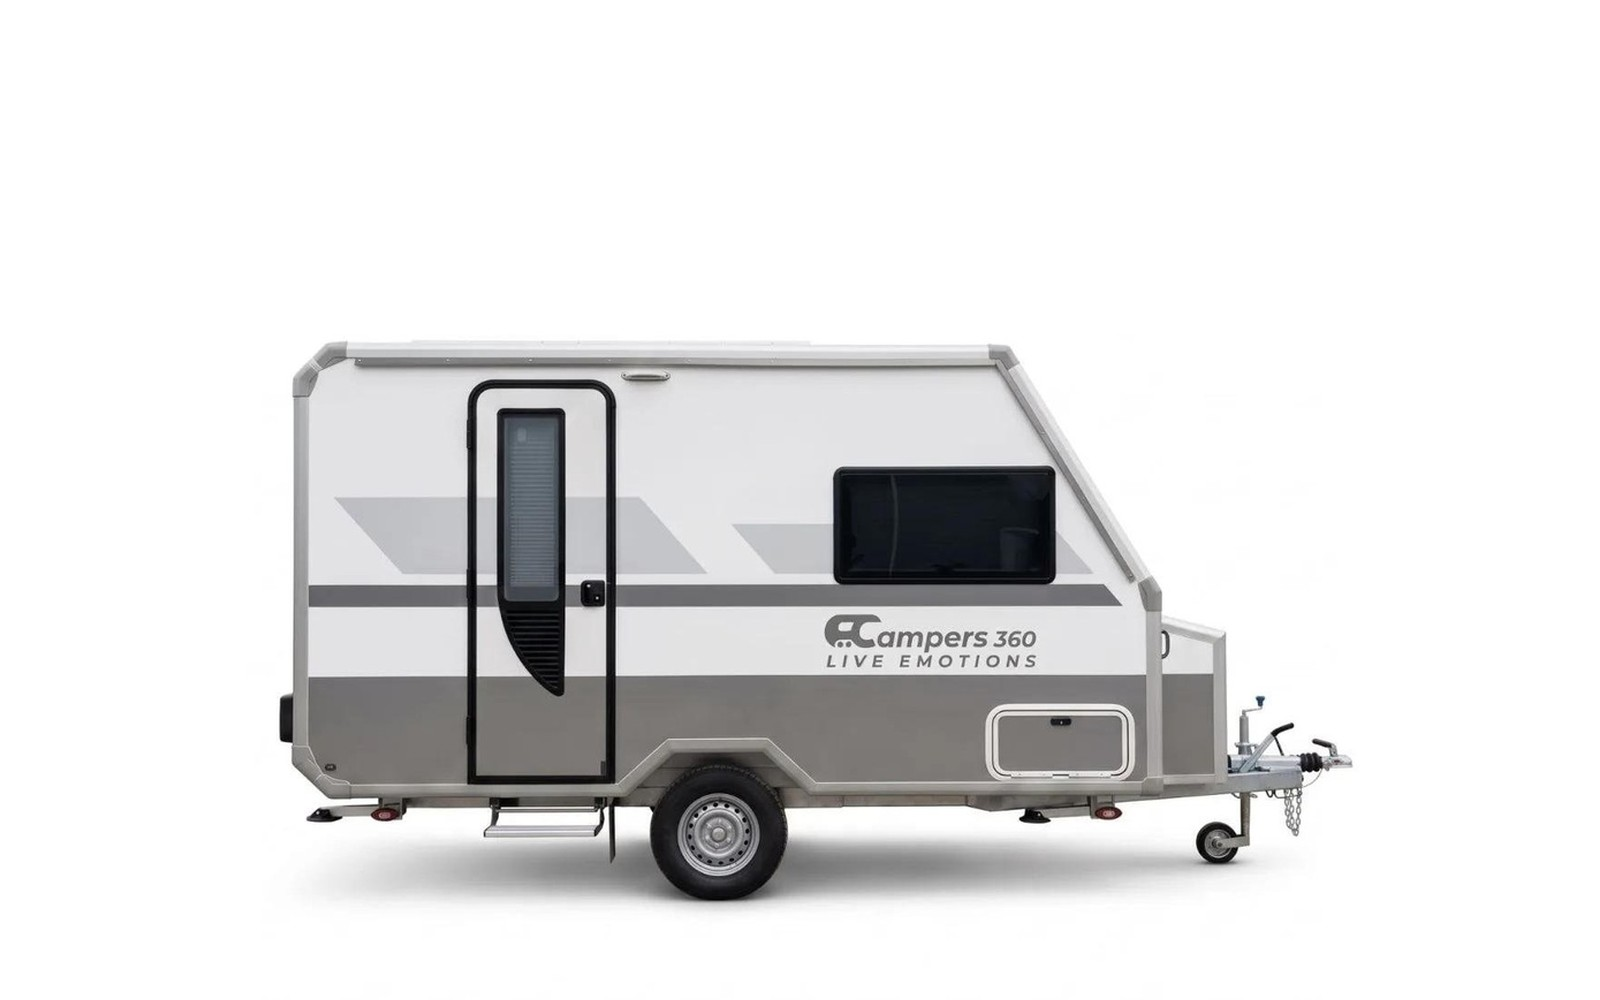
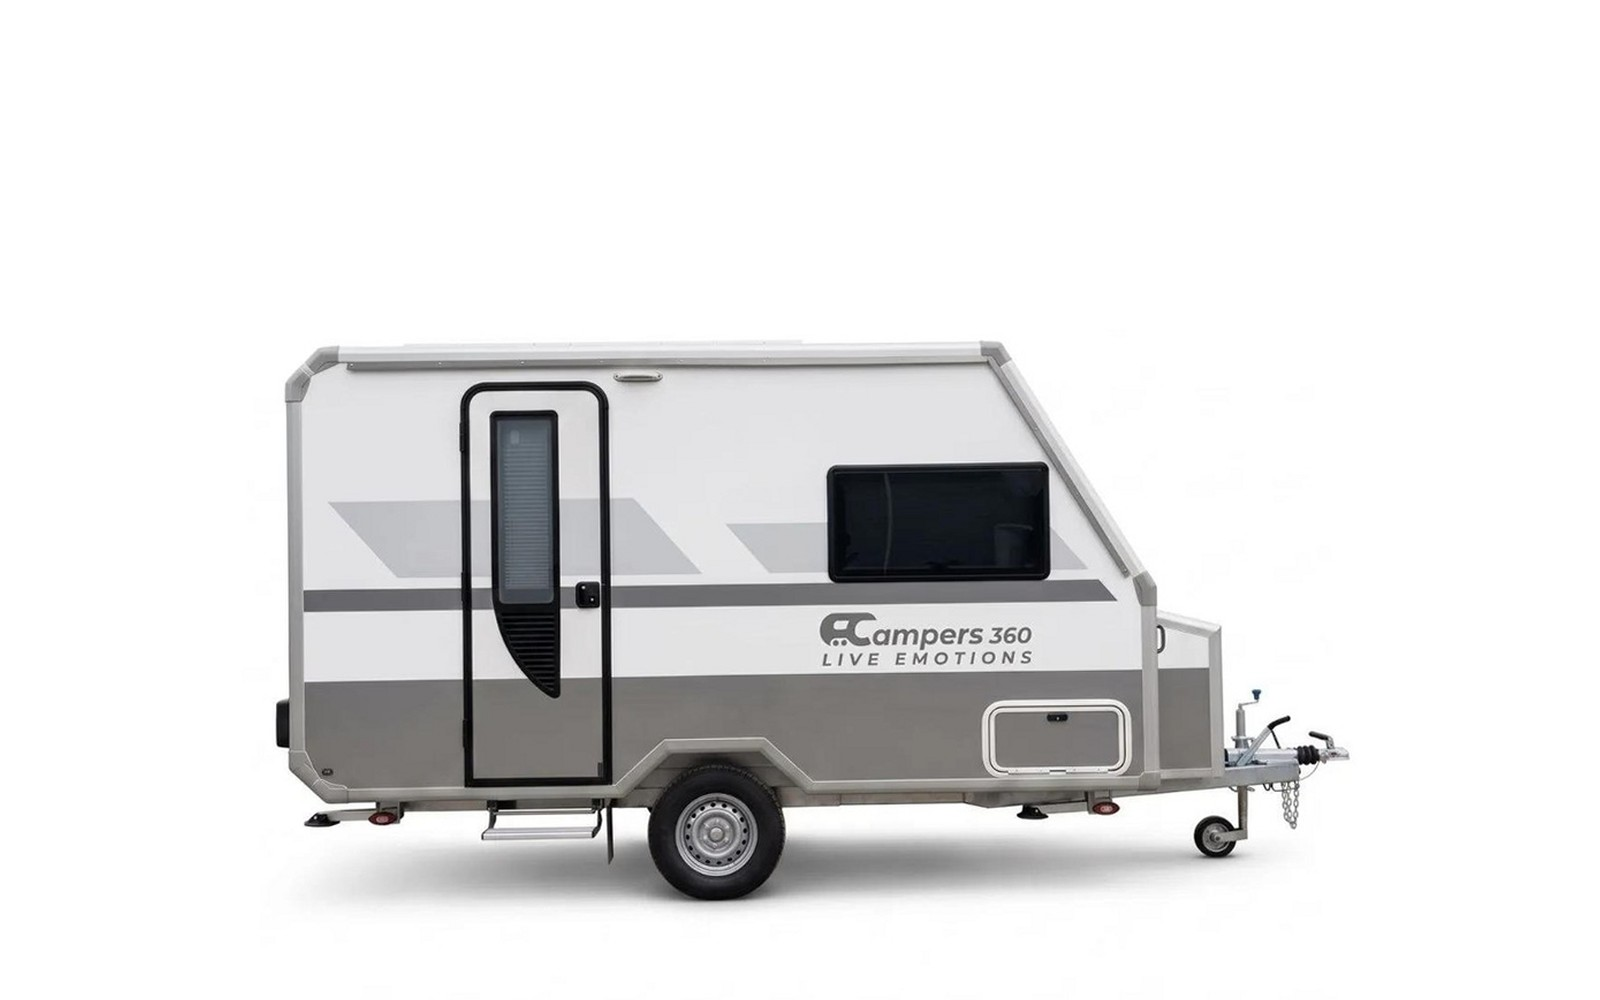
Level series renders (fix tilt), convert to WebP to bust image cache

Changed region(s): [[0.1562, 0.341, 0.5, 0.868], [0.4688, 0.341, 0.8438, 0.868], [0.4688, 0.744, 0.5, 0.775]]

diff --git a/index.html b/index.html
@@ -102,7 +102,7 @@
 
       <div class="grid sm:grid-cols-2 lg:grid-cols-3 gap-5 lg:gap-6">
         <article class="series-card reveal">
-          <img class="series-photo" src="assets/img/model-300.jpg" alt="Караван FCampers серии 300" loading="lazy">
+          <img class="series-photo" src="assets/img/model-300.webp" alt="Караван FCampers серии 300" loading="lazy">
           <div class="p-6 flex flex-col grow">
             <h3 class="text-xl font-extrabold">Серия 300</h3>
             <p class="text-sm text-muted mt-1">Компактная база для двоих</p>
@@ -121,7 +121,7 @@
         </article>
 
         <article class="series-card reveal">
-          <img class="series-photo" src="assets/img/model-400.jpg" alt="Караван FCampers серии 400" loading="lazy">
+          <img class="series-photo" src="assets/img/model-400.webp" alt="Караван FCampers серии 400" loading="lazy">
           <div class="p-6 flex flex-col grow">
             <h3 class="text-xl font-extrabold">Серия 400</h3>
             <p class="text-sm text-muted mt-1">Оптимальный баланс для семьи</p>
@@ -140,7 +140,7 @@
         </article>
 
         <article class="series-card reveal">
-          <img class="series-photo" src="assets/img/model-500.jpg" alt="Караван FCampers серии 500" loading="lazy">
+          <img class="series-photo" src="assets/img/model-500.webp" alt="Караван FCampers серии 500" loading="lazy">
           <div class="p-6 flex flex-col grow">
             <h3 class="text-xl font-extrabold">Серия 500</h3>
             <p class="text-sm text-muted mt-1">Максимум пространства</p>
